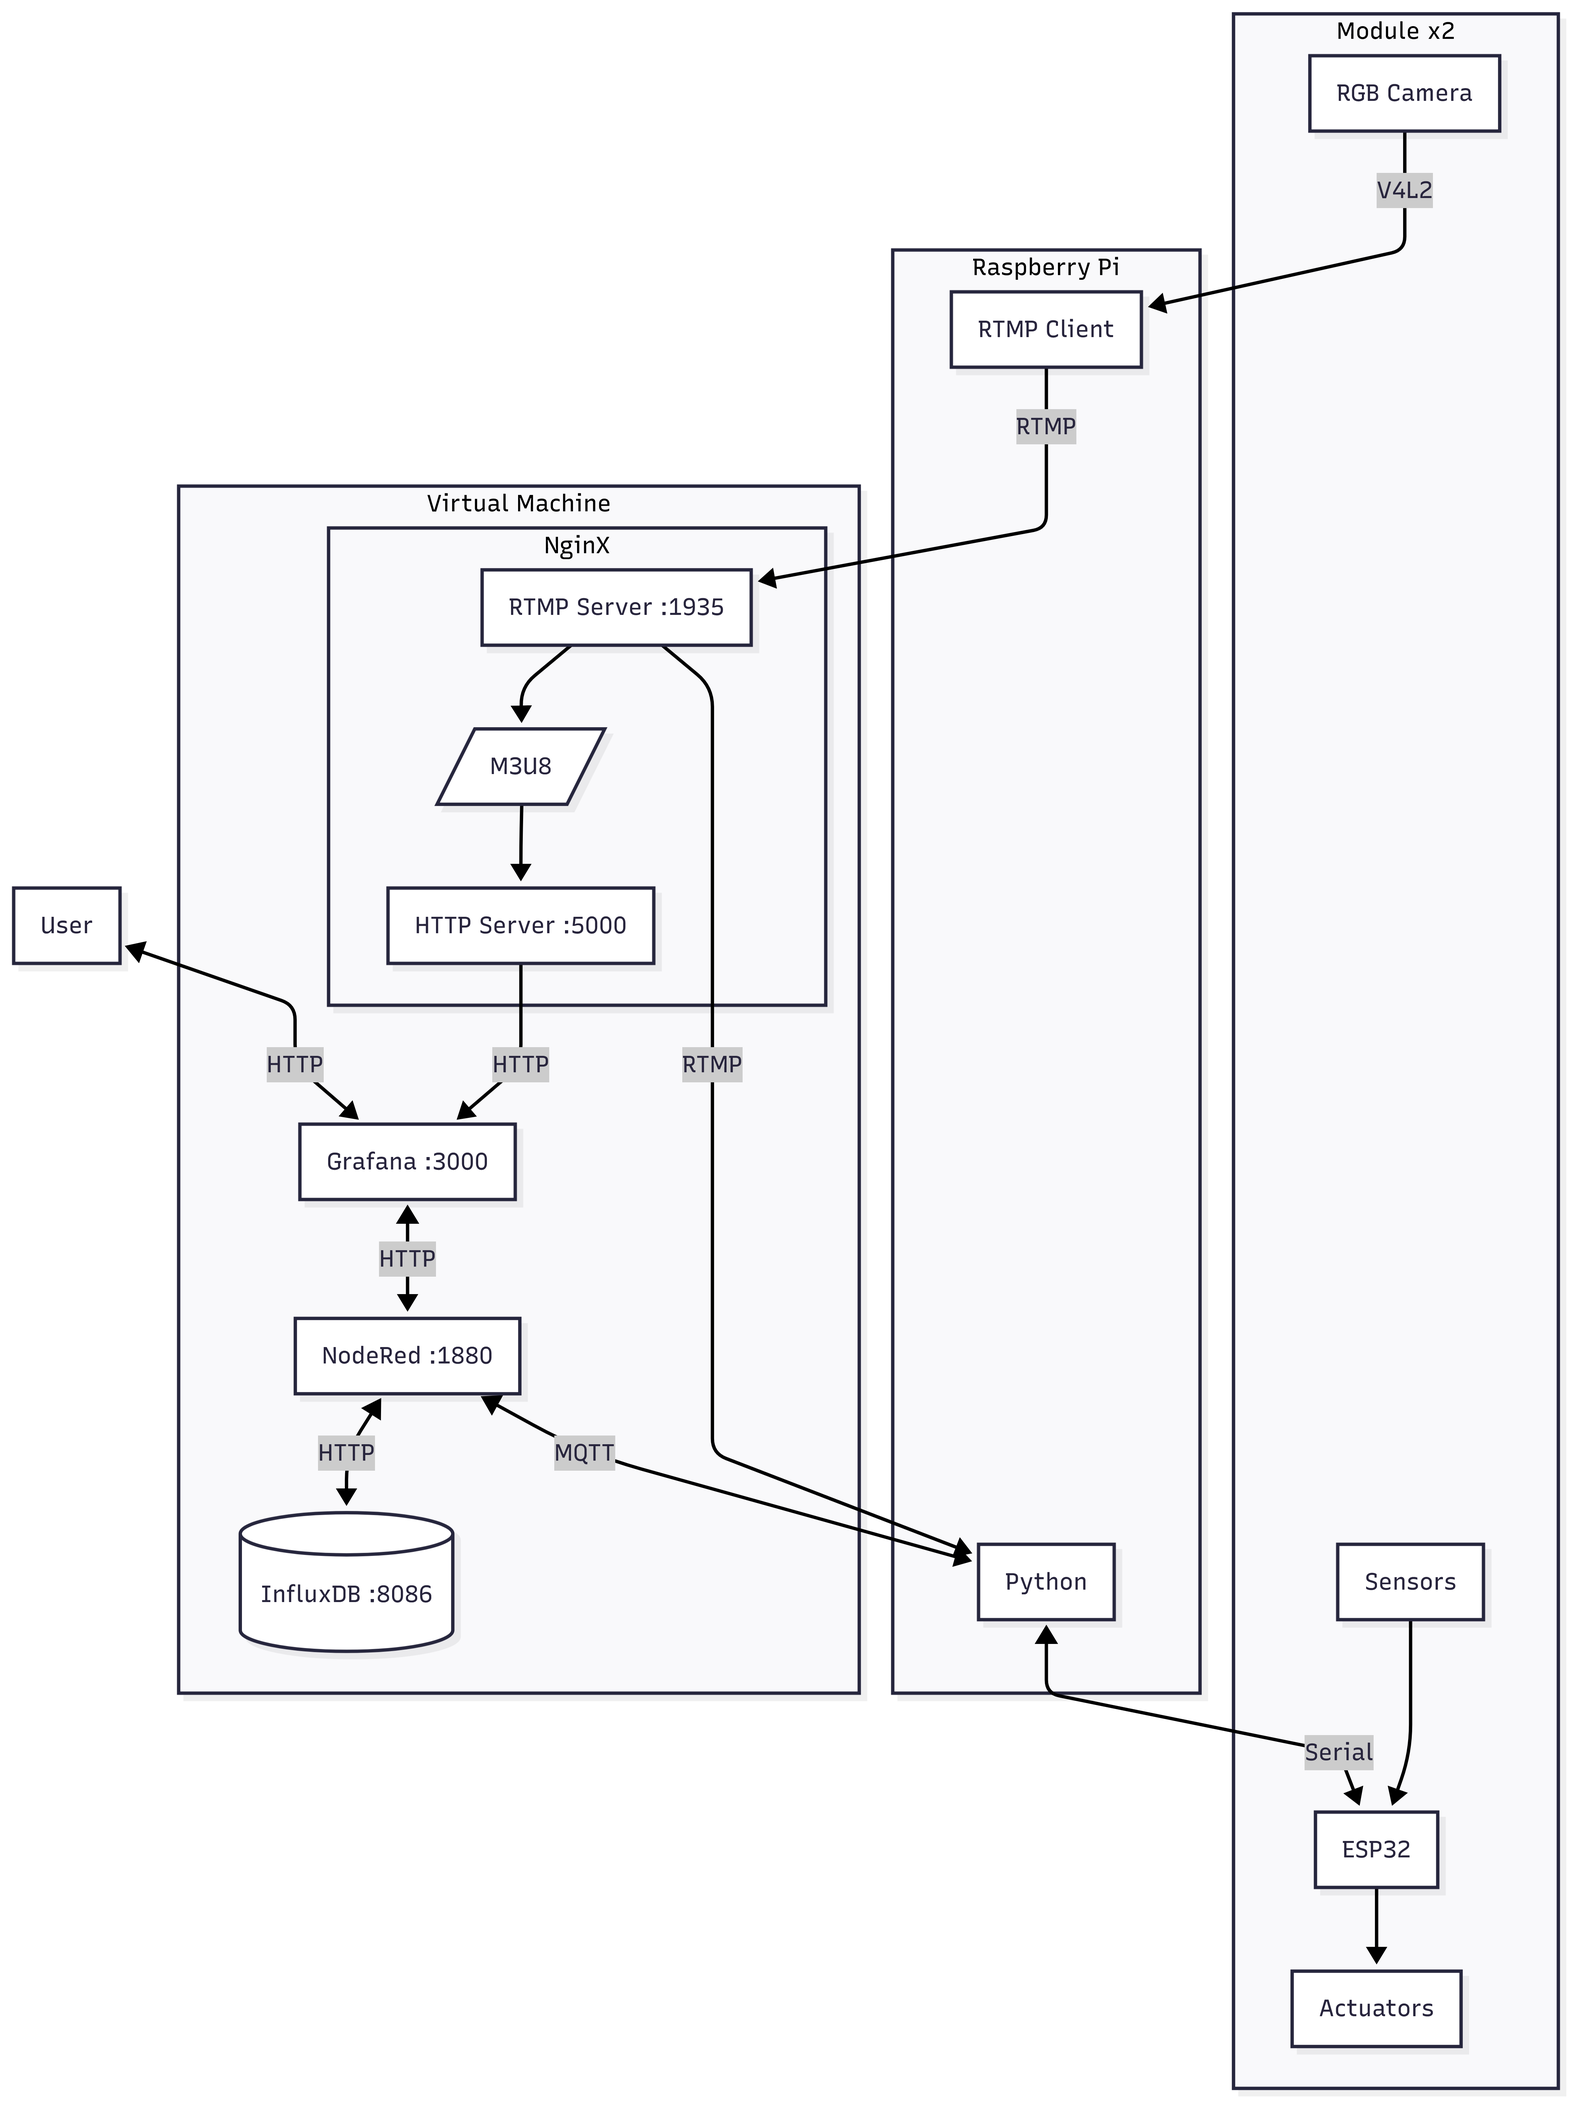
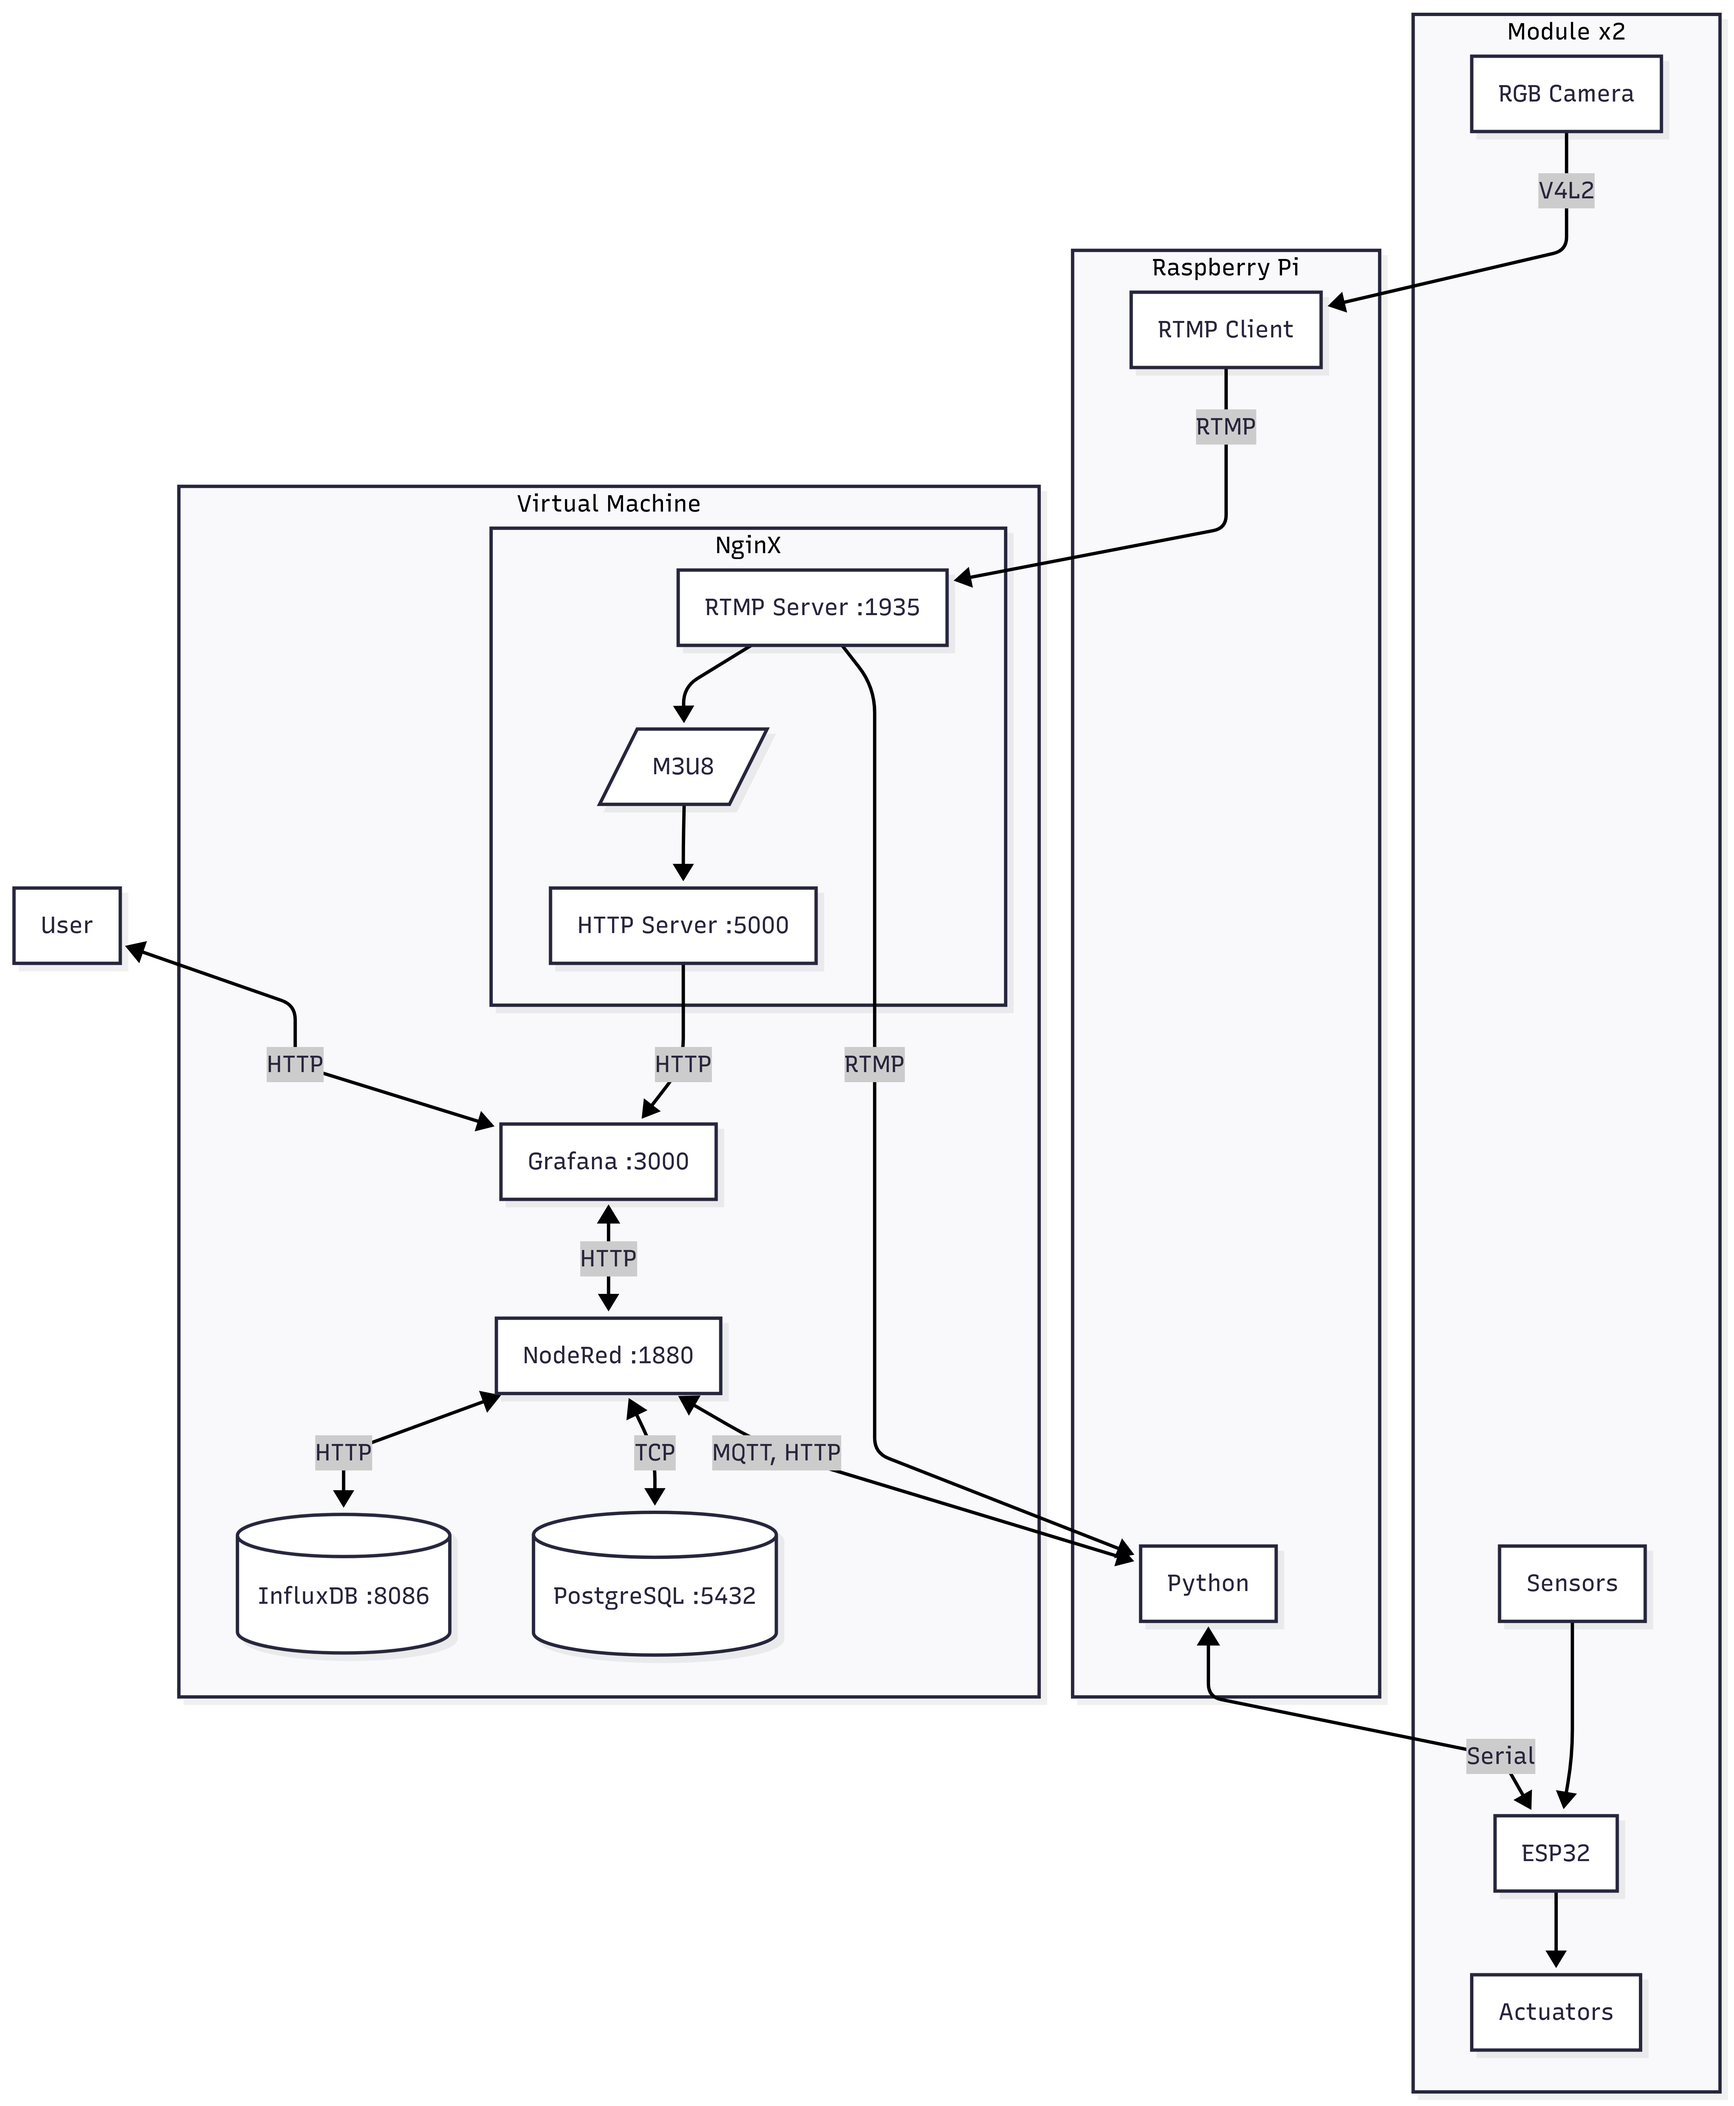
Add data storage service

diff --git a/README.md b/README.md
@@ -1,6 +1,6 @@
 # Camara de Crecimiento - SISE
 
-## Architecture
+## Architecture Diagram
 
 ```mermaid
 flowchart 
@@ -35,8 +35,10 @@ subgraph Datacenter["Virtual Machine"]
     Grafana["Grafana :3000"]
     NodeRed["NodeRed :1880"]
     Influx[("InfluxDB :8086")]
+    SQL[("PostgreSQL" :5432)]
     Nginx
 
+    NodeRed <-- TCP --> SQL
     NodeRed <-- HTTP --> Influx
     Grafana <-- HTTP --> NodeRed
 end
@@ -49,9 +51,47 @@ RTMPClient -- RTMP --> RTMPServer
 RTMPServer -- RTMP --> Python
 
 %% ---------------- DATA FLOW ----------------
-NodeRed <-- MQTT --> Python
+NodeRed <-- MQTT, HTTP --> Python
 
 %% ---------------- VISUALIZATION ----------------
 HTTPServer -- HTTP --> Grafana
 User <-- HTTP --> Grafana
+```
+
+## Entity-Relationship Diagram
+
+```mermaid
+erDiagram
+
+    SENSOR_DATA {
+        int experiment_id
+        datetime timestamp
+        float ambient_temperature
+        float ambient_humidity
+        float ambien_co2
+        float soil_humidity
+        float soil_temp
+        float electric_conductivity
+        float nitrogen
+        float phosphorus
+        float potassium
+        float ph
+        float white_light
+        float uv_light
+    }
+
+    EXPERIMENT {
+        int experiment_id
+        int module_id
+        string name
+    }
+
+    IMAGES {
+        int experiment_id
+        datetime timestamp
+        string path
+    }
+
+    EXPERIMENT ||--o{ SENSOR_DATA : has
+    EXPERIMENT ||--o{ IMAGES : has
 ```
